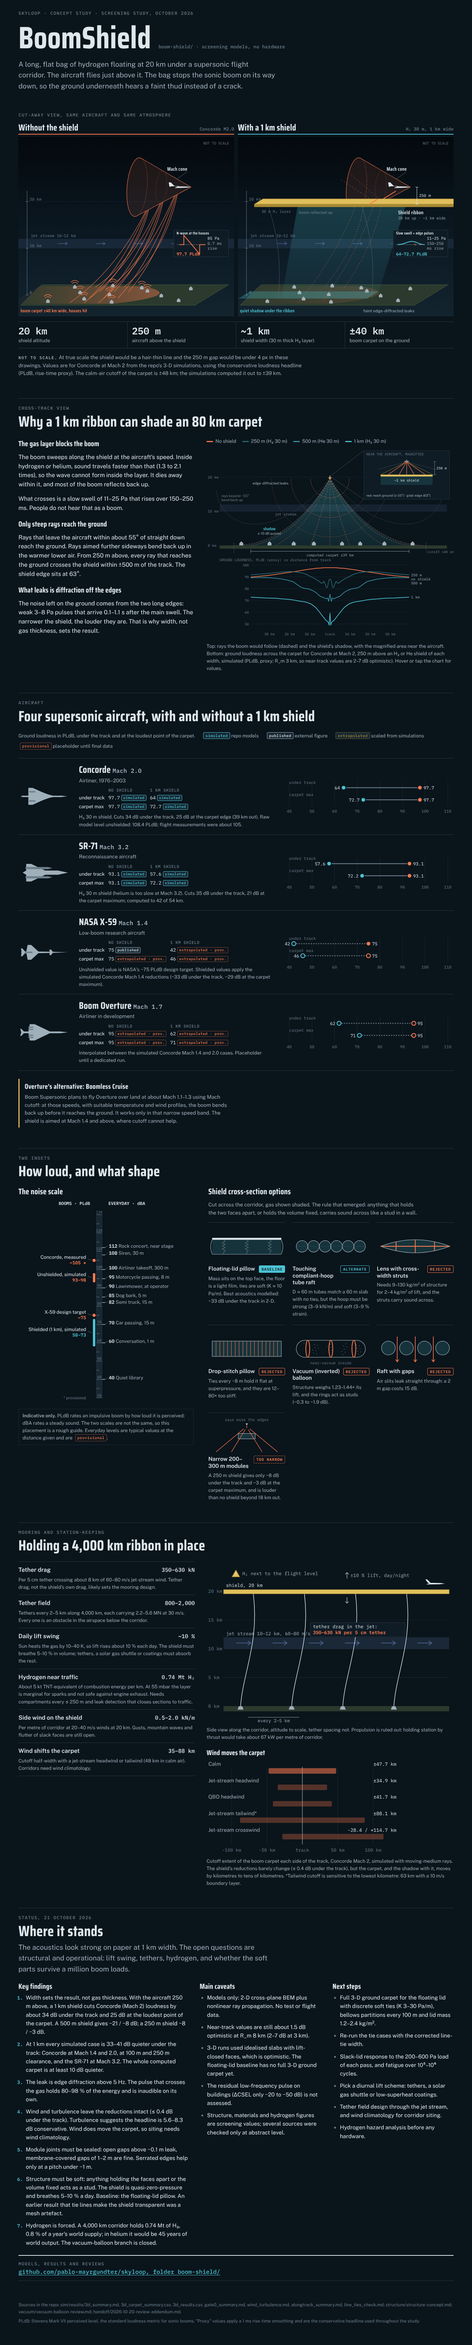
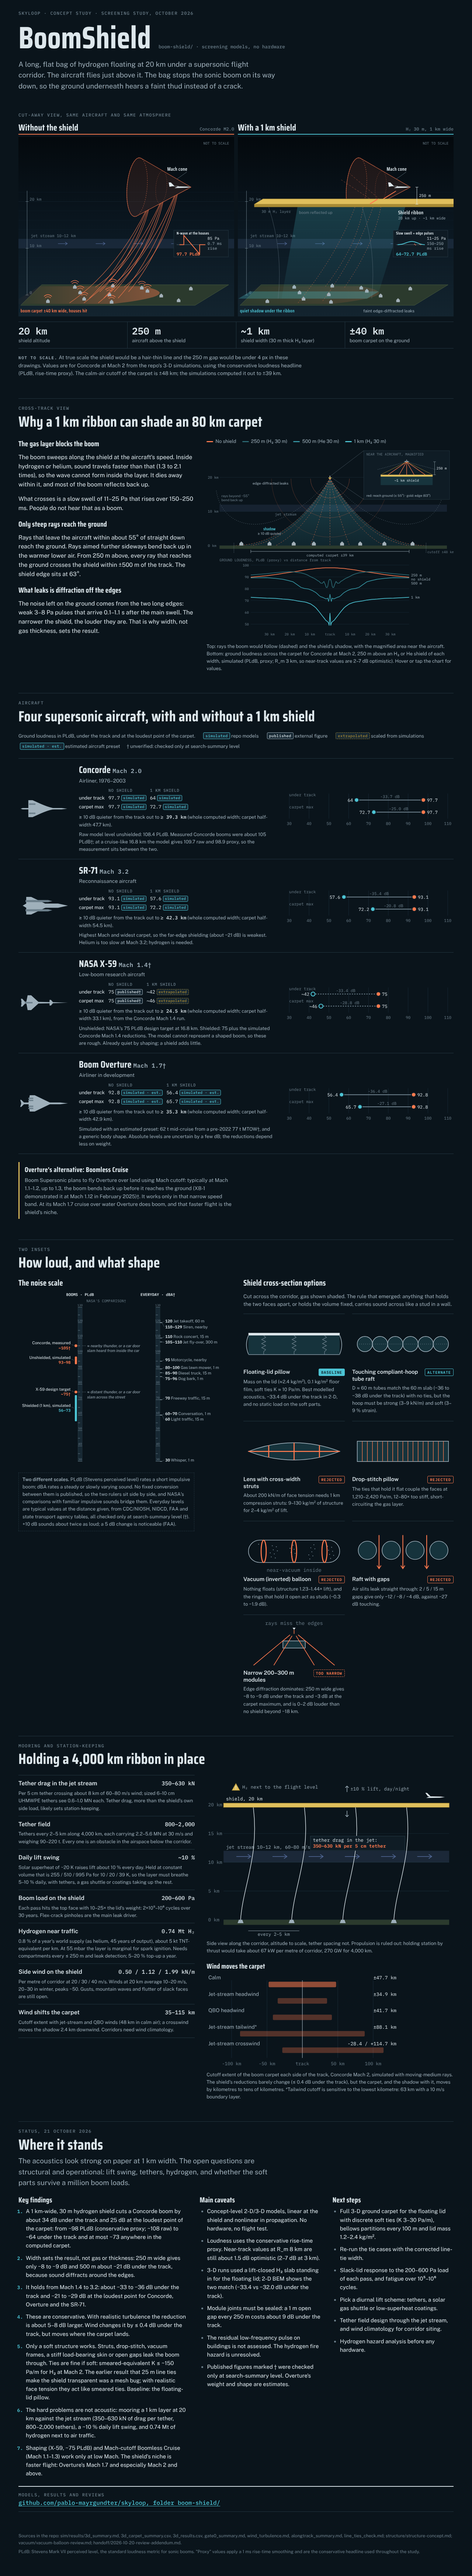
Add BoomShield illustrated explainer page and final infographic data
Claude-Session: https://claude.ai/code/session_01RbnYLXCK3HPi4Bm69kAxad

diff --git a/boom-shield/infographic/index.html b/boom-shield/infographic/index.html
@@ -83,6 +83,10 @@ figcaption{font-size:13px;color:var(--ink-2)}
 .legend{display:flex;flex-wrap:wrap;gap:6px 16px;font-size:13px;color:var(--ink-2)}
 .legend i{display:inline-block;width:18px;height:3px;border-radius:2px;vertical-align:middle;margin-right:6px}
 .chart-wrap{position:relative;overflow-x:auto}
+.scroll-x{overflow-x:auto}
+.swipe-hint{display:none}
+.ac .strip{font-size:13px;color:var(--ink-2)}
+.ac .strip b{font:500 13px var(--f-mono);color:var(--ink)}
 #winds{max-width:520px}
 .tip{position:absolute;pointer-events:none;background:var(--surface);border:1px solid var(--rule);padding:8px 10px;font:12px/1.45 var(--f-mono);font-variant-numeric:tabular-nums;color:var(--ink);min-width:150px;box-shadow:0 4px 14px rgba(0,0,0,.12)}
 .tip b{font-weight:600}
@@ -101,13 +105,13 @@ table.vals td.v{font:500 14px var(--f-mono);font-variant-numeric:tabular-nums}
 .chip.sim{border-color:var(--quiet);color:var(--quiet)}
 .chip.pub{border-color:var(--ink-2);color:var(--ink)}
 .chip.ext{border-style:dashed;border-color:var(--film-edge);color:var(--film-edge)}
-.chip.prov{background:transparent;border-style:dotted;color:var(--boom);border-color:var(--boom)}
+
 table.vals .chip{font-size:10px;padding:2px 4px}
 .keyline{display:flex;flex-wrap:wrap;gap:8px 18px;font-size:13px;color:var(--ink-2);align-items:center}
 .callout{border-left:3px solid var(--film);padding:6px 0 6px 14px;display:grid;gap:4px;max-width:80ch}
 .callout b{font-family:var(--f-display);font-size:19px;letter-spacing:.02em}
 /* insets */
-.insets{display:grid;grid-template-columns:minmax(0,5fr) minmax(0,7fr);gap:40px;align-items:start}
+.insets{display:grid;grid-template-columns:minmax(0,6fr) minmax(0,6fr);gap:40px;align-items:start}
 .caveat{font-size:13px;color:var(--ink-2);border:1px dashed var(--rule);padding:8px 10px;max-width:60ch}
 .opts{display:grid;grid-template-columns:repeat(auto-fill,minmax(200px,1fr));gap:18px 20px}
 .opt{display:grid;gap:6px;align-content:start;min-width:0;padding-top:10px;border-top:1px solid var(--rule)}
@@ -166,6 +170,8 @@ svg .td{font-family:var(--f-display);font-weight:600;letter-spacing:.03em}
   .ac .sil{max-width:150px}
   .lede{font-size:17px}
   #cross-svg{min-width:640px}
+  #ruler svg{min-width:560px}
+  .swipe-hint{display:block}
   .hero svg text{font-size:14px}
   .hero svg text.td{font-size:16px}
 }
@@ -239,7 +245,8 @@ svg .td{font-family:var(--f-display);font-weight:600;letter-spacing:.03em}
     <span><span class="chip sim">simulated</span> repo models</span>
     <span><span class="chip pub">published</span> external figure</span>
     <span><span class="chip ext">extrapolated</span> scaled from simulations</span>
-    <span><span class="chip prov">provisional</span> placeholder until final data</span>
+    <span><span class="chip sim">simulated · est.</span> estimated aircraft preset</span>
+    <span>† unverified: checked only at search-summary level</span>
   </div>
   <div class="ac-list" id="ac-list"></div>
   <div class="callout">
@@ -256,8 +263,9 @@ svg .td{font-family:var(--f-display);font-weight:600;letter-spacing:.03em}
   <div class="insets">
     <figure>
       <h3>The noise scale</h3>
-      <div id="ruler"></div>
-      <p class="caveat"><b>Indicative only.</b> PLdB rates an impulsive boom by how loud it is perceived; dBA rates a steady sound. The two scales are not the same, so this placement is a rough guide. Everyday levels are typical values at the distance given and are <span class="chip prov">provisional</span>.</p>
+      <div id="ruler" class="scroll-x"></div>
+      <p class="small muted swipe-hint">Swipe the ruler sideways to see the dBA scale.</p>
+      <p class="caveat"><b>Two different scales.</b> PLdB (Stevens perceived level) rates a short impulsive boom; dBA rates a steady or slowly varying sound. No fixed conversion between them is published, so the two rulers sit side by side, and NASA's comparisons with familiar impulsive sounds bridge them. Everyday levels are typical values at the distance given, from CDC/NIOSH, NIDCD, FAA and state transport agency tables, all checked only at search-summary level (†). <span data-k="noise.rule"></span></p>
     </figure>
     <div style="display:grid;gap:14px;min-width:0">
       <h3>Shield cross-section options</h3>
@@ -276,7 +284,7 @@ svg .td{font-family:var(--f-display);font-weight:600;letter-spacing:.03em}
     <div class="concerns" id="concerns"></div>
     <figure>
       <div id="moor"></div>
-      <figcaption>Side view along the corridor, altitude to scale, tether spacing not. Propulsion is ruled out: holding station by thrust would take about <span data-k="mooring.propulsion_kW_per_m"></span> kW per metre of corridor.</figcaption>
+      <figcaption>Side view along the corridor, altitude to scale, tether spacing not. Propulsion is ruled out: holding station by thrust would take about <span data-k="mooring.propulsion_kW_per_m"></span> kW per metre of corridor, <span data-k="mooring.propulsion_GW"></span> GW for 4,000 km.</figcaption>
       <h3 style="margin-top:14px;font-size:19px">Wind moves the carpet</h3>
       <div id="winds"></div>
       <figcaption>Cutoff extent of the boom carpet each side of the track, Concorde Mach 2, simulated with moving-medium rays. The shield's reductions barely change (≤ 0.4 dB under the track), but the carpet, and the shadow with it, moves by kilometres to tens of kilometres. <span data-k="winds.note"></span></figcaption>
@@ -308,7 +316,7 @@ svg .td{font-family:var(--f-display);font-weight:600;letter-spacing:.03em}
 </div>
 
 <script>
-/* ===== Every number on the page lives here. Values marked prov:true are placeholders. ===== */
+/* ===== Every number on the page lives here (final values from data.json, 21 Oct 2026). ===== */
 const DATA = {
   meta:{status:"screening study, October 2026", statusDate:"21 October 2026",
     repoText:"github.com/pablo-mayrgundter/skyloop, folder boom-shield/",
@@ -332,61 +340,77 @@ const DATA = {
       {id:"w1000", label:"1 km (H₂ 30 m)", short:"1 km", cls:"s-quiet", sw:"var(--quiet)",
        v:[59.2,49.0,51.0,51.9,52.5,53.0,53.7,55.3,57.0,58.8,60.6,62.2,63.8,65.1,66.2,67.2,67.8,68.4,68.8,69.2,69.7,70.4,70.9,71.2,71.8,72.0,72.7]}
     ]},
-  /* PLdB, proxy headline. Shielded = 1 km shield, 250 m clearance. Undertrack uses R_m 8 km where available. */
+  /* PLdB, proxy headline. Shielded = 1 km H2 30 m shield, aircraft 250 m above it (20.25 km).
+     Undertrack at R_m 8 km, carpet max and >=10 dB strip at R_m 3 km. Source: data.json.
+     uv:true = published figure checked only at search-summary level (shown with a dagger). est:true = simulated with an estimated preset. */
   aircraft:[
-    {id:"concorde", name:"Concorde", mach:2.0, kind:"Airliner, 1976–2003",
+    {id:"concorde", name:"Concorde", mach:2.0, machTag:"sim", kind:"Airliner, 1976–2003",
      un:{ut:{v:97.7,tag:"sim"}, max:{v:97.7,tag:"sim"}},
      sh:{ut:{v:64.0,tag:"sim"}, max:{v:72.7,tag:"sim"}},
-     note:"H₂ 30 m shield. Cuts 34 dB under the track, 25 dB at the carpet edge (39 km out). Raw model level unshielded: 108.4 PLdB; flight measurements were about 105."},
-    {id:"sr71", name:"SR-71", mach:3.2, kind:"Reconnaissance aircraft",
+     delta:{ut:-33.7, max:-25.0}, strip:{half:39.3, carpet:47.7, tag:"sim"},
+     note:"Raw model level unshielded: 108.4 PLdB. Measured Concorde booms were about 105 PLdB†; at a cruise-like 16.8 km the model gives 109.7 raw and 98.9 proxy, so the measurement sits between the two."},
+    {id:"sr71", name:"SR-71", mach:3.2, machTag:"sim", kind:"Reconnaissance aircraft",
      un:{ut:{v:93.1,tag:"sim"}, max:{v:93.1,tag:"sim"}},
      sh:{ut:{v:57.6,tag:"sim"}, max:{v:72.2,tag:"sim"}},
-     note:"H₂ 30 m shield (helium is too slow at Mach 3.2). Cuts 35 dB under the track, 21 dB at the carpet maximum; computed to 42 of 54 km."},
-    {id:"x59", name:"NASA X-59", mach:1.4, kind:"Low-boom research aircraft",
-     un:{ut:{v:75,tag:"pub"}, max:{v:75,tag:"ext",prov:true}},
-     sh:{ut:{v:42,tag:"ext",prov:true}, max:{v:46,tag:"ext",prov:true}},
-     note:"Unshielded value is NASA's ~75 PLdB design target. Shielded values apply the simulated Concorde Mach 1.4 reductions (−33 dB under the track, −29 dB at the carpet maximum)."},
-    {id:"overture", name:"Boom Overture", mach:1.7, kind:"Airliner in development",
-     un:{ut:{v:95,tag:"ext",prov:true}, max:{v:95,tag:"ext",prov:true}},
-     sh:{ut:{v:62,tag:"ext",prov:true}, max:{v:71,tag:"ext",prov:true}},
-     note:"Interpolated between the simulated Concorde Mach 1.4 and 2.0 cases. Placeholder until a dedicated run."}
+     delta:{ut:-35.4, max:-20.8}, strip:{half:42.3, carpet:54.5, tag:"sim"},
+     note:"Highest Mach and widest carpet, so the far-edge shielding (about −21 dB) is weakest. Helium is too slow at Mach 3.2; hydrogen is needed."},
+    {id:"x59", name:"NASA X-59", mach:1.4, machTag:"pub", machUv:true, kind:"Low-boom research aircraft",
+     un:{ut:{v:75,tag:"pub",uv:true}, max:{v:75,tag:"pub",uv:true}},
+     sh:{ut:{v:42,tag:"ext",approx:true}, max:{v:46,tag:"ext",approx:true}},
+     delta:{ut:-33.4, max:-28.8}, strip:{half:24.5, carpet:33.1, tag:"ext"},
+     note:"Unshielded: NASA's 75 PLdB design target at 16.8 km. Shielded: 75 plus the simulated Concorde Mach 1.4 reductions. The model cannot represent a shaped boom, so these are rough. Already quiet by shaping; a shield adds little."},
+    {id:"overture", name:"Boom Overture", mach:1.7, machTag:"pub", machUv:true, kind:"Airliner in development",
+     un:{ut:{v:92.8,tag:"sim",est:true}, max:{v:92.8,tag:"sim",est:true}},
+     sh:{ut:{v:56.4,tag:"sim",est:true}, max:{v:65.7,tag:"sim",est:true}},
+     delta:{ut:-36.4, max:-27.1}, strip:{half:35.3, carpet:42.9, tag:"sim"},
+     note:"Simulated with an estimated preset: 62 t mid-cruise from a pre-2022 77 t MTOW†, and a generic body shape. Absolute levels are uncertain by a few dB; the reductions depend less on weight."}
   ],
-  boomless:{text:"Boom Supersonic plans to fly Overture over land at about Mach 1.1–1.3 using Mach cutoff: at those speeds, with suitable temperature and wind profiles, the boom bends back up before it reaches the ground. It works only in that narrow speed band. The shield is aimed at Mach 1.4 and above, where cutoff cannot help."},
+  boomless:{text:"Boom Supersonic plans to fly Overture over land using Mach cutoff: typically at Mach 1.1–1.2, up to 1.3, the boom bends back up before it reaches the ground (XB-1 demonstrated it at Mach 1.12 in February 2025)†. It works only in that narrow speed band. At its Mach 1.7 cruise over water Overture does boom, and that faster flight is the shield's niche."},
   noise:{
     min:30, max:130,
     boom:[
-      {label:"Concorde, measured", v:105, tag:"pub", prov:true},
+      {label:"Concorde, measured", v:105, tag:"pub", uv:true},
       {label:"Unshielded, simulated", lo:93, hi:98, tag:"sim"},
-      {label:"X-59 design target", v:75, tag:"pub"},
-      {label:"Shielded (1 km), simulated", lo:58, hi:73, tag:"sim", quiet:true}
+      {label:"X-59 design target", v:75, tag:"pub", uv:true},
+      {label:"Shielded (1 km), simulated", lo:56, hi:73, tag:"sim", quiet:true}
     ],
+    analogies:[
+      {at:105, lines:["≈ nearby thunder, or a car door","slam heard from inside the car"]},
+      {at:75, lines:["≈ distant thunder, or a car door","slam across the street"]}
+    ],
+    /* dBA, typical values at the distance given; all from agency pages checked only at search-summary level */
     everyday:[
-      {label:"Rock concert, near stage", v:112},
-      {label:"Siren, 30 m", v:108},
-      {label:"Airliner takeoff, 300 m", v:100},
-      {label:"Motorcycle passing, 8 m", v:95},
-      {label:"Lawnmower, at operator", v:90},
-      {label:"Dog bark, 5 m", v:85},
-      {label:"Semi truck, 15 m", v:82},
-      {label:"Car passing, 15 m", v:70},
-      {label:"Conversation, 1 m", v:60},
-      {label:"Quiet library", v:40}
-    ], prov:true},
+      {label:"Jet takeoff, 60 m", v:120, txt:"120"},
+      {label:"Siren, nearby", v:120, txt:"110–129"},
+      {label:"Rock concert, 15 m", v:110, txt:"110"},
+      {label:"Jet fly-over, 300 m", v:107.5, txt:"105–110"},
+      {label:"Motorcycle, nearby", v:95, txt:"95"},
+      {label:"Gas lawn mower, 1 m", v:90, txt:"80–100"},
+      {label:"Diesel truck, 15 m", v:87.5, txt:"85–90"},
+      {label:"Dog bark, 1 m", v:85, txt:"75–96"},
+      {label:"Freeway traffic, 15 m", v:70, txt:"70"},
+      {label:"Conversation, 1 m", v:60, txt:"60–70"},
+      {label:"Light traffic, 15 m", v:60, txt:"60"},
+      {label:"Whisper, 1 m", v:30, txt:"30"}
+    ],
+    rule:"+10 dB sounds about twice as loud; a 5 dB change is noticeable (FAA)."},
   options:[
-    {id:"lid", name:"Floating-lid pillow", verdict:"baseline", why:"Mass sits on the top face, the floor is a light film, ties are soft (K ≈ 10 Pa/m). Best acoustics modelled: −33 dB under the track in 2-D."},
-    {id:"raft", name:"Touching compliant-hoop tube raft", verdict:"alternate", why:"D ≈ 60 m tubes match a 60 m slab with no ties, but the hoop must be strong (3–9 kN/m) and soft (3–9 % strain)."},
-    {id:"lens", name:"Lens with cross-width struts", verdict:"rejected", why:"Needs 9–130 kg/m² of structure for 2–4 kg/m² of lift, and the struts carry sound across."},
-    {id:"drop", name:"Drop-stitch pillow", verdict:"rejected", why:"Ties every ~8 m hold it flat at superpressure, and they are 12–80× too stiff."},
-    {id:"vac", name:"Vacuum (inverted) balloon", verdict:"rejected", why:"Structure weighs 1.23–1.44× its lift, and the rings act as studs (−0.3 to −1.9 dB)."},
-    {id:"gaps", name:"Raft with gaps", verdict:"rejected", why:"Air slits leak straight through: a 2 m gap costs 15 dB."},
-    {id:"narrow", name:"Narrow 200–300 m modules", verdict:"narrow", verdictText:"too narrow", why:"A 250 m shield gives only −8 dB under the track and −3 dB at the carpet maximum, and is louder than no shield beyond 18 km out."}
+    {id:"lid", name:"Floating-lid pillow", verdict:"baseline", why:"Mass on the lid (≈2.4 kg/m²), 0.1 kg/m² floor film, soft ties K ≈ 10 Pa/m. Best modelled acoustics, −33.4 dB under the track in 2-D, and no static load on the soft parts."},
+    {id:"raft", name:"Touching compliant-hoop tube raft", verdict:"alternate", why:"D ≈ 60 m tubes match the 60 m slab (−36 to −38 dB under the track) with no ties, but the hoop must be strong (3–9 kN/m) and soft (3–9 % strain)."},
+    {id:"lens", name:"Lens with cross-width struts", verdict:"rejected", why:"About 200 kN/m of face tension needs 1 km compression struts: 9–130 kg/m² of structure for 2–4 kg/m² of lift."},
+    {id:"drop", name:"Drop-stitch pillow", verdict:"rejected", why:"The ties that hold it flat couple the faces at 1,210–2,420 Pa/m, 12–80× too stiff, short-circuiting the gas layer."},
+    {id:"vac", name:"Vacuum (inverted) balloon", verdict:"rejected", why:"Nothing floats (structure 1.23–1.44× lift), and the rings that hold it open act as studs (−0.3 to −1.9 dB)."},
+    {id:"gaps", name:"Raft with gaps", verdict:"rejected", why:"Air slits leak straight through: 2 / 5 / 15 m gaps give only −12 / −8 / −4 dB, against −27 dB touching."},
+    {id:"narrow", name:"Narrow 200–300 m modules", verdict:"narrow", verdictText:"too narrow", why:"Edge diffraction dominates: 250 m wide gives −8 to −9 dB under the track and −3 dB at the carpet maximum, and is 0–2 dB louder than no shield beyond ~18 km."}
   ],
   mooring:{
-    tetherDrag_kN:"350–630", tetherDia_cm:5, jetWind_ms:"60–80",
-    stationLoad_MN:"2.2–5.6", spacing_km:"2–5", tetherCount:"800–2,000", corridor_km:"4,000",
-    liftSwing_pct:10, breathing_pct:"5–10",
-    h2_Mt:0.74, h2_share_pct:0.8, h2_tnt_kt_per_km:5, compartment_m:250,
-    propulsion_kW_per_m:67, sideForce_kN_per_m:"0.5–2.0", wind20km_ms:"20–40"},
+    tetherDrag_kN:"350–630", tetherDia_cm:5, jetWind_ms:"60–80", sizedDrag_MN:"0.6–1.0", sizedDia_cm:"6–10",
+    stationLoad_MN:"2.2–5.6", tetherMass_t:"90–220", spacing_km:"2–5", tetherCount:"800–2,000", corridor_km:"4,000",
+    liftSwing_pct:10, breathing_pct:"5–10", dp_Pa:"255 / 510 / 995", superheat_K:"10 / 20 / 39",
+    boomLoad_Pa:"200–600", cycles:"2×10⁵–10⁶",
+    h2_Mt:0.74, h2_share_pct:0.8, helium_years:45, h2_tnt_kt_per_km:5, compartment_m:250, replenish_pct:"5–20",
+    propulsion_kW_per_m:67, propulsion_GW:270, sideForce:"0.50 / 1.12 / 1.99", sideWind:"20 / 30 / 40",
+    cutoffRange_km:"35–115", crosswindShift_km:2.4},
   winds:{
     note:"*Tailwind cutoff is sensitive to the lowest kilometre: 63 km with a 10 m/s boundary layer.",
     cases:[
@@ -397,24 +421,25 @@ const DATA = {
       {label:"Jet-stream crosswind", lo:-28.4, hi:114.7}
     ]},
   findings:[
-    "Width sets the result, not gas thickness. With the aircraft 250 m above, a 1 km shield cuts Concorde (Mach 2) loudness by about 34 dB under the track and 25 dB at the loudest point of the carpet. A 500 m shield gives −21 / −8 dB; a 250 m shield −8 / −3 dB.",
-    "At 1 km every simulated case is 33–41 dB quieter under the track: Concorde at Mach 1.4 and 2.0, at 100 m and 250 m clearance, and the SR-71 at Mach 3.2. The whole computed carpet is at least 10 dB quieter.",
-    "The leak is edge diffraction above 5 Hz. The pulse that crosses the gas holds 80–98 % of the energy and is inaudible on its own.",
-    "Wind and turbulence leave the reductions intact (≤ 0.4 dB under the track). Turbulence suggests the headline is 5.6–8.3 dB conservative. Wind does move the carpet, so siting needs wind climatology.",
-    "Module joints must be sealed: open gaps above ~0.1 m leak, membrane-covered gaps of 1–2 m are fine. Serrated edges help only at a pitch under ~1 m.",
-    "Structure must be soft: anything holding the faces apart or the volume fixed acts as a stud. The shield is quasi-zero-pressure and breathes 5–10 % a day. Baseline: the floating-lid pillow. An earlier result that tie lines make the shield transparent was a mesh artefact.",
-    "Hydrogen is forced. A 4,000 km corridor holds 0.74 Mt of H₂, 0.8 % of a year's world supply; in helium it would be 45 years of world output. The vacuum-balloon branch is closed."
+    "A 1 km-wide, 30 m hydrogen shield cuts a Concorde boom by about 34 dB under the track and 25 dB at the loudest point of the carpet: from ~98 PLdB (conservative proxy; ~108 raw) to ~64 under the track and at most ~73 anywhere in the computed carpet.",
+    "Width sets the result, not gas or thickness: 250 m wide gives only −8 to −9 dB and 500 m about −21 dB under the track, because sound diffracts around the edges.",
+    "It holds from Mach 1.4 to 3.2: about −33 to −36 dB under the track and −21 to −29 dB at the loudest point for Concorde, Overture and the SR-71.",
+    "These are conservative. With realistic turbulence the reduction is about 5–8 dB larger. Wind changes it by ≤ 0.4 dB under the track, but moves where the carpet lands.",
+    "Only a soft structure works. Struts, drop-stitch, vacuum frames, a stiff load-bearing skin or open gaps leak the boom through. Ties are fine if soft: smeared-equivalent K ≤ ~150 Pa/m for H₂ at Mach 2. The earlier result that 25 m line ties make the shield transparent was a mesh bug; with realistic face tension they act like smeared ties. Baseline: the floating-lid pillow.",
+    "The hard problems are not acoustic: mooring a 1 km layer at 20 km against the jet stream (350–630 kN of drag per tether, 800–2,000 tethers), a ~10 % daily lift swing, and 0.74 Mt of hydrogen next to air traffic.",
+    "Shaping (X-59, ~75 PLdB) and Mach-cutoff Boomless Cruise (Mach 1.1–1.3) work only at low Mach. The shield's niche is faster flight: Overture's Mach 1.7 and especially Mach 2 and above."
   ],
   caveats:[
-    "Models only: 2-D cross-plane BEM plus nonlinear ray propagation. No test or flight data.",
-    "Near-track values are still about 1.5 dB optimistic at R_m 8 km (2–7 dB at 3 km).",
-    "3-D runs used idealised slabs with lift-closed faces, which is optimistic. The floating-lid baseline has no full 3-D ground carpet yet.",
-    "The residual low-frequency pulse on buildings (ΔCSEL only −20 to −50 dB) is not assessed.",
-    "Structure, materials and hydrogen figures are screening values; several sources were checked only at abstract level."
+    "Concept-level 2-D/3-D models, linear at the shield and nonlinear in propagation. No hardware, no flight test.",
+    "Loudness uses the conservative rise-time proxy. Near-track values at R_m 8 km are still about 1.5 dB optimistic (2–7 dB at 3 km).",
+    "3-D runs used a lift-closed H₂ slab standing in for the floating lid; 2-D BEM shows the two match (−33.4 vs −32.0 dB under the track).",
+    "Module joints must be sealed: a 1 m open gap every 250 m costs about 9 dB under the track.",
+    "The residual low-frequency pulse on buildings is not assessed. The hydrogen fire hazard is unresolved.",
+    "Published figures marked † were checked only at search-summary level. Overture's weight and shape are estimates."
   ],
   next:[
     "Full 3-D ground carpet for the floating lid with discrete soft ties (K 3–30 Pa/m), bellows partitions every 100 m and lid mass 1.2–2.4 kg/m².",
-    "Re-run the tie cases with the corrected line-tie width.",
+    "Re-run the 3-D tie cases with tensioned faces; the current solver treats the faces as limp, which flatters discrete ties.",
     "Slack-lid response to the 200–600 Pa load of each pass, and fatigue over 10⁵–10⁶ cycles.",
     "Pick a diurnal lift scheme: tethers, a solar gas shuttle or low-superheat coatings.",
     "Tether field design through the jet stream, and wind climatology for corridor siting.",
@@ -677,62 +702,72 @@ const SIL={
   overture:`<path d="M140 28 L118 25.5 L14 25.5 L7 28 L14 30.5 L118 30.5 Z" class="f-ink2"/><path d="M92 27 L46 5 L32 5 L28 27 L32 51 L46 51 L92 29 Z" class="f-ink2"/><rect x="28" y="12" width="14" height="3.5" class="f-ink3"/><rect x="28" y="18" width="14" height="3.5" class="f-ink3"/><rect x="28" y="34.5" width="14" height="3.5" class="f-ink3"/><rect x="28" y="40.5" width="14" height="3.5" class="f-ink3"/><path d="M18 28 L8 18 L5 18 L8 28 L5 38 L8 38 Z" class="f-ink2"/>`
 };
 const TAGTXT={sim:'simulated',pub:'published',ext:'extrapolated'};
-const chip=o=>`<span class="chip ${o.tag}${o.prov?' prov':''}">${TAGTXT[o.tag]}${o.prov?' · prov.':''}</span>`;
+const chip=o=>`<span class="chip ${o.tag}">${TAGTXT[o.tag]}${o.est?' · est.':''}${o.uv?'†':''}</span>`;
+const val=o=>`${o.approx?'~':''}${o.v.toFixed?(Number.isInteger(o.v)?o.v:o.v.toFixed(1)):o.v}`;
 function dumbbell(a){
-  const lo=40, hi=110, x=v=>14+(v-lo)/(hi-lo)*392;
+  const lo=30, hi=110, x=v=>14+(v-lo)/(hi-lo)*392;
   let s=`<svg viewBox="0 0 420 92" role="img" aria-label="${a.name} ground loudness, unshielded vs shielded">`;
-  for(let v=40; v<=110; v+=10){ s+=`<line x1="${x(v)}" x2="${x(v)}" y1="8" y2="70" class="s-grid" fill="none"/><text x="${x(v)}" y="86" font-size="10" text-anchor="middle" class="f-ink3 tm">${v}</text>`; }
+  for(let v=30; v<=110; v+=10){ s+=`<line x1="${x(v)}" x2="${x(v)}" y1="8" y2="70" class="s-grid" fill="none"/><text x="${x(v)}" y="86" font-size="10" text-anchor="middle" class="f-ink3 tm">${v}</text>`; }
   [['ut','under track',24],['max','carpet max',54]].forEach(([key,lab,y])=>{
     const u=a.un[key], h=a.sh[key];
     s+=`<text x="${x(lo)}" y="${y-9}" font-size="10" class="f-ink3 tm">${lab}</text>`;
-    s+=`<line x1="${x(h.v)}" x2="${x(u.v)}" y1="${y}" y2="${y}" class="s-ink3" stroke-width="2" ${h.prov||u.prov?'stroke-dasharray="3 3"':''} fill="none"/>`;
-    const dot=(o,cls)=> o.prov?`<circle cx="${x(o.v)}" cy="${y}" r="5" class="f-surface ${cls.replace('f-','s-')}" stroke-width="2"/>`:`<circle cx="${x(o.v)}" cy="${y}" r="5.5" class="${cls} s-surface" stroke-width="2"/>`;
+    s+=`<line x1="${x(h.v)}" x2="${x(u.v)}" y1="${y}" y2="${y}" class="s-ink3" stroke-width="2" ${h.tag==='ext'?'stroke-dasharray="3 3"':''} fill="none"/>`;
+    const dot=(o,cls)=> o.tag==='ext'?`<circle cx="${x(o.v)}" cy="${y}" r="5" class="f-surface ${cls.replace('f-','s-')}" stroke-width="2"/>`:`<circle cx="${x(o.v)}" cy="${y}" r="5.5" class="${cls} s-surface" stroke-width="2"/>`;
     s+=dot(h,'f-quiet')+dot(u,'f-boom');
-    s+=`<text x="${x(u.v)+9}" y="${y+4}" font-size="11" class="f-ink tm">${u.v}</text><text x="${x(h.v)-9}" y="${y+4}" font-size="11" text-anchor="end" class="f-ink tm">${h.v}</text>`;
+    s+=`<text x="${x(u.v)+9}" y="${y+4}" font-size="11" class="f-ink tm">${val(u)}</text><text x="${x(h.v)-9}" y="${y+4}" font-size="11" text-anchor="end" class="f-ink tm">${val(h)}</text>`;
+    s+=`<text x="${(x(u.v)+x(h.v))/2}" y="${y-5}" font-size="10" text-anchor="middle" class="f-ink3 tm">${a.delta[key].toFixed(1)} dB</text>`;
   });
   return s+'</svg>';
 }
 $('#ac-list').innerHTML=DATA.aircraft.map(a=>`<div class="ac">
   <div class="sil"><svg viewBox="0 0 146 56" role="img" aria-label="${a.name} planform, generic silhouette">${SIL[a.id]}</svg></div>
-  <div class="meta"><h3>${a.name} <span class="mono" style="font-size:16px;color:var(--ink-2)">Mach ${a.mach.toFixed(1)}</span></h3>
+  <div class="meta"><h3>${a.name} <span class="mono" style="font-size:16px;color:var(--ink-2)">Mach ${a.mach.toFixed(1)}${a.machUv?'†':''}</span></h3>
     <span class="small muted">${a.kind}</span>
     <table class="vals"><thead><tr><th></th><th>no shield</th><th>1 km shield</th></tr></thead><tbody>
-      <tr><th>under track</th><td><span class="mono num">${a.un.ut.v}</span>${chip(a.un.ut)}</td><td><span class="mono num">${a.sh.ut.v}</span>${chip(a.sh.ut)}</td></tr>
-      <tr><th>carpet max</th><td><span class="mono num">${a.un.max.v}</span>${chip(a.un.max)}</td><td><span class="mono num">${a.sh.max.v}</span>${chip(a.sh.max)}</td></tr>
+      <tr><th>under track</th><td><span class="mono num">${val(a.un.ut)}</span>${chip(a.un.ut)}</td><td><span class="mono num">${val(a.sh.ut)}</span>${chip(a.sh.ut)}</td></tr>
+      <tr><th>carpet max</th><td><span class="mono num">${val(a.un.max)}</span>${chip(a.un.max)}</td><td><span class="mono num">${val(a.sh.max)}</span>${chip(a.sh.max)}</td></tr>
     </tbody></table>
+    <span class="strip">≥ 10 dB quieter from the track out to <b>≥ ${a.strip.half} km</b> (whole computed width; carpet half-width ${a.strip.carpet} km)${a.strip.tag==='ext'?', from the Concorde Mach 1.4 run':''}.</span>
     <p class="note">${a.note}</p></div>
   <div class="chart">${dumbbell(a)}</div></div>`).join('');
 /* the values table can be wide on phones: let it scroll inside its own box */
 document.querySelectorAll('table.vals').forEach(t=>{const d=document.createElement('div'); d.style.overflowX='auto'; t.parentNode.insertBefore(d,t); d.appendChild(t);});
 
-/* ===== NOISE RULER ===== */
+/* ===== NOISE RULER: two parallel scales, NASA analogies as the bridge ===== */
 (function(){
-  const n=DATA.noise, Y=v=>40+(n.max-v)*4.6, x0=196;
-  let s=`<svg viewBox="0 0 440 520" role="img" aria-label="Loudness ruler comparing boom levels in PLdB with everyday sounds in dBA">`;
-  s+=`<text x="${x0-16}" y="16" font-size="11" text-anchor="end" class="f-ink tm" font-weight="600">BOOMS · PLdB</text>`;
-  s+=`<text x="${x0+30}" y="16" font-size="11" class="f-ink tm" font-weight="600">EVERYDAY · dBA</text>`;
-  s+=`<rect x="${x0}" y="${Y(n.max)}" width="14" height="${Y(n.min)-Y(n.max)}" class="f-grid s-rule" stroke-width="1"/>`;
-  for(let v=n.min; v<=n.max; v+=5){ const big=v%10===0; s+=`<line x1="${x0}" x2="${x0+(big?14:7)}" y1="${Y(v)}" y2="${Y(v)}" class="s-ink3" fill="none"/>`; if(big) s+=`<text x="${x0+7}" y="${Y(v)-3}" font-size="9" text-anchor="middle" class="f-ink3 tm">${v}</text>`; }
-  // boom items (left)
+  const n=DATA.noise, Y=v=>48+(n.max-v)*4.4, xL=170, xR=392;
+  let s=`<svg viewBox="0 0 600 512" role="img" aria-label="Boom levels in PLdB beside everyday sounds in dBA, on separate scales">`;
+  s+=`<text x="${xL+6}" y="16" font-size="11" text-anchor="middle" class="f-ink tm" font-weight="600">BOOMS · PLdB</text>`;
+  s+=`<text x="${xL+24}" y="34" font-size="10.5" class="f-ink3 tm">NASA'S COMPARISON†</text>`;
+  s+=`<text x="${xR+6}" y="16" font-size="11" text-anchor="middle" class="f-ink tm" font-weight="600">EVERYDAY · dBA†</text>`;
+  [xL,xR].forEach(x0=>{
+    s+=`<rect x="${x0}" y="${Y(n.max)}" width="12" height="${Y(n.min)-Y(n.max)}" class="f-grid s-rule" stroke-width="1"/>`;
+    for(let v=n.min; v<=n.max; v+=5){ const big=v%10===0; s+=`<line x1="${x0}" x2="${x0+(big?12:6)}" y1="${Y(v)}" y2="${Y(v)}" class="s-ink3" fill="none"/>`; if(big) s+=`<text x="${x0+6}" y="${Y(v)-3}" font-size="8.5" text-anchor="middle" class="f-ink3 tm">${v}</text>`; }
+  });
+  // bridge: analogies at the PL level, right of the PL ruler
+  n.analogies.forEach(a=>{const y=Y(a.at);
+    s+=`<line x1="${xL+12}" x2="${xL+22}" y1="${y}" y2="${y}" class="s-ink3" stroke-dasharray="2 2" fill="none"/>`;
+    a.lines.forEach((t,i)=>{s+=`<text x="${xL+26}" y="${r1(y+4+i*14)}" font-size="11" font-style="italic" class="f-ink2">${t}</text>`;});
+  });
+  // boom items (left of PL ruler)
   const L=n.boom.map(b=>({b, y:Y(b.v!=null?b.v:(b.lo+b.hi)/2)})).sort((a,b)=>a.y-b.y);
-  for(let i=1;i<L.length;i++) if(L[i].y-L[i-1].y<30) L[i].y=L[i-1].y+30;
+  for(let i=1;i<L.length;i++) if(L[i].y-L[i-1].y<32) L[i].y=L[i-1].y+32;
   L.forEach(({b,y})=>{
-    const cls=b.quiet?'quiet':'boom';
-    if(b.v!=null){ s+=`<circle cx="${x0-6}" cy="${Y(b.v)}" r="4" class="f-${cls}"/>`; s+=`<path d="M${x0-12} ${Y(b.v)} L${x0-22} ${r1(y-4)}" class="s-ink3" stroke-width=".7" fill="none"/>`; }
-    else { s+=`<rect x="${x0-9}" y="${Y(b.hi)}" width="6" height="${Y(b.lo)-Y(b.hi)}" rx="2" class="f-${cls}"/>`; s+=`<path d="M${x0-12} ${r1((Y(b.hi)+Y(b.lo))/2)} L${x0-22} ${r1(y-4)}" class="s-ink3" stroke-width=".7" fill="none"/>`; }
+    const cls=b.quiet?'quiet':'boom', x0=xL;
+    if(b.v!=null){ s+=`<circle cx="${x0-6}" cy="${Y(b.v)}" r="4" class="f-${cls}"/>`; s+=`<path d="M${x0-12} ${Y(b.v)} L${x0-18} ${r1(y-4)}" class="s-ink3" stroke-width=".7" fill="none"/>`; }
+    else { s+=`<rect x="${x0-9}" y="${Y(b.hi)}" width="6" height="${Y(b.lo)-Y(b.hi)}" rx="2" class="f-${cls}"/>`; s+=`<path d="M${x0-12} ${r1((Y(b.hi)+Y(b.lo))/2)} L${x0-18} ${r1(y-4)}" class="s-ink3" stroke-width=".7" fill="none"/>`; }
     const val=b.v!=null?`~${b.v}`:`${b.lo}–${b.hi}`;
-    s+=`<text x="${x0-26}" y="${r1(y-4)}" font-size="12" text-anchor="end" class="f-ink">${b.label}</text>`;
-    s+=`<text x="${x0-26}" y="${r1(y+10)}" font-size="11.5" text-anchor="end" class="f-${cls} tm" font-weight="600">${val}${b.prov?' *':''}</text>`;
+    s+=`<text x="${x0-21}" y="${r1(y-4)}" font-size="11.5" text-anchor="end" class="f-ink">${b.label}</text>`;
+    s+=`<text x="${x0-21}" y="${r1(y+10)}" font-size="11.5" text-anchor="end" class="f-${cls} tm" font-weight="600">${val}${b.uv?'†':''}</text>`;
   });
-  // everyday (right)
+  // everyday (right of dBA ruler)
   const R=n.everyday.map(e=>({e,y:Y(e.v)})).sort((a,b)=>a.y-b.y);
-  for(let i=1;i<R.length;i++) if(R[i].y-R[i-1].y<17) R[i].y=R[i-1].y+17;
+  for(let i=1;i<R.length;i++) if(R[i].y-R[i-1].y<16) R[i].y=R[i-1].y+16;
   R.forEach(({e,y})=>{
-    s+=`<line x1="${x0+14}" x2="${x0+22}" y1="${Y(e.v)}" y2="${Y(e.v)}" class="s-ink2" stroke-width="1.5" fill="none"/>`;
-    s+=`<path d="M${x0+22} ${Y(e.v)} L${x0+28} ${r1(y-4)}" class="s-ink3" stroke-width=".7" fill="none"/>`;
-    s+=`<text x="${x0+31}" y="${r1(y)}" font-size="12" class="f-ink2"><tspan class="tm f-ink" font-weight="600">${e.v}</tspan>  ${e.label}</text>`;
+    s+=`<line x1="${xR+12}" x2="${xR+18}" y1="${Y(e.v)}" y2="${Y(e.v)}" class="s-ink2" stroke-width="1.5" fill="none"/>`;
+    s+=`<path d="M${xR+18} ${Y(e.v)} L${xR+24} ${r1(y-4)}" class="s-ink3" stroke-width=".7" fill="none"/>`;
+    s+=`<text x="${xR+27}" y="${r1(y)}" font-size="11.5" class="f-ink2"><tspan class="tm f-ink" font-weight="600">${e.txt}</tspan> ${e.label}</text>`;
   });
-  s+=`<text x="${x0-26}" y="${Y(n.min)+4}" font-size="10" text-anchor="end" class="f-ink3">* provisional</text>`;
   $('#ruler').innerHTML=s+'</svg>';
 })();
 
@@ -782,12 +817,13 @@ $('#opts').innerHTML=DATA.options.map(o=>`<div class="opt"><svg viewBox="0 0 200
   s+=`<text x="${(anchors[0]+anchors[1])/2+18}" y="${yG+38}" font-size="10.5" text-anchor="middle" class="f-ink2 tm">every ${m.spacing_km} km</text>`;
   $('#moor').innerHTML=s+'</svg>';
   const C=[
-    ['Tether drag',`${m.tetherDrag_kN} kN`,`Per ${m.tetherDia_cm} cm tether crossing about 8 km of ${m.jetWind_ms} m/s jet-stream wind. Tether drag, not the shield's own drag, likely sets the mooring design.`],
-    ['Tether field',`${m.tetherCount}`,`Tethers every ${m.spacing_km} km along ${m.corridor_km} km, each carrying ${m.stationLoad_MN} MN at 30 m/s. Every one is an obstacle in the airspace below the corridor.`],
-    ['Daily lift swing',`~${m.liftSwing_pct} %`,`Sun heats the gas by 10–40 K, so lift rises about 10 % each day. The shield must breathe ${m.breathing_pct} % in volume; tethers, a solar gas shuttle or coatings must absorb the rest.`],
-    ['Hydrogen near traffic',`${m.h2_Mt} Mt H₂`,`About ${m.h2_tnt_kt_per_km} kt TNT-equivalent of combustion energy per km. At 55 mbar the layer is marginal for sparks and not safe against engine exhaust. Needs compartments every ≤ ${m.compartment_m} m and leak detection that closes sections to traffic.`],
-    ['Side wind on the shield',`${m.sideForce_kN_per_m} kN/m`,`Per metre of corridor at ${m.wind20km_ms} m/s winds at 20 km. Gusts, mountain waves and flutter of slack faces are still open.`],
-    ['Wind shifts the carpet','35–88 km',`Cutoff half-width with a jet-stream headwind or tailwind (48 km in calm air). Corridors need wind climatology.`]
+    ['Tether drag in the jet stream',`${m.tetherDrag_kN} kN`,`Per ${m.tetherDia_cm} cm tether crossing about 8 km of ${m.jetWind_ms} m/s wind; sized ${m.sizedDia_cm} cm UHMWPE tethers see ${m.sizedDrag_MN} MN each. Tether drag, more than the shield's own side load, likely sets station-keeping.`],
+    ['Tether field',`${m.tetherCount}`,`Tethers every ${m.spacing_km} km along ${m.corridor_km} km, each carrying ${m.stationLoad_MN} MN at 30 m/s and weighing ${m.tetherMass_t} t. Every one is an obstacle in the airspace below the corridor.`],
+    ['Daily lift swing',`~${m.liftSwing_pct} %`,`Solar superheat of ~20 K raises lift about 10 % every day. Held at constant volume that is ${m.dp_Pa} Pa for ${m.superheat_K} K, so the layer must breathe ${m.breathing_pct} % daily, with tethers, a gas shuttle or coatings taking up the rest.`],
+    ['Boom load on the shield',`${m.boomLoad_Pa} Pa`,`Each pass hits the top face with 10–25× the lid's weight: ${m.cycles} cycles over 30 years. Flex-crack pinholes are the main leak driver.`],
+    ['Hydrogen near traffic',`${m.h2_Mt} Mt H₂`,`${m.h2_share_pct} % of a year's world supply (as helium, ${m.helium_years} years of output), about ${m.h2_tnt_kt_per_km} kt TNT-equivalent per km. At 55 mbar the layer is marginal for spark ignition. Needs compartments every ≤ ${m.compartment_m} m and leak detection; ${m.replenish_pct} % top-up a year.`],
+    ['Side wind on the shield',`${m.sideForce} kN/m`,`Per metre of corridor at ${m.sideWind} m/s. Winds at 20 km average 10–20 m/s, 20–30 in winter, peaks ~50. Gusts, mountain waves and flutter of slack faces are still open.`],
+    ['Wind shifts the carpet',`${m.cutoffRange_km} km`,`Cutoff extent with jet-stream and QBO winds (48 km in calm air); a crosswind moves the shadow ${m.crosswindShift_km} km downwind. Corridors need wind climatology.`]
   ];
   $('#concerns').innerHTML=C.map(([h,f,p])=>`<div><b>${h}</b><span class="fig">${f}</span><p>${p}</p></div>`).join('');
   // winds

diff --git a/boom-shield/README.md b/boom-shield/README.md
@@ -5,6 +5,7 @@ This directory collects the first-pass acoustic analysis for a bouyant sonic-boo
 ## Contents
 
 - **[STATUS.md](STATUS.md): current concept status (start here).**
+- **[infographic/index.html](infographic/index.html): illustrated explainer (scene, aircraft comparison, loudness scale, cross-sections, mooring).**
 
 Copied from the full [ChatG thread here](https://chatgpt.com/share/69e16de1-e3ac-83e8-9bbd-eb2f741c8bd0).
 
